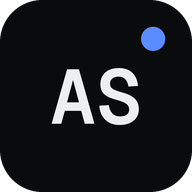
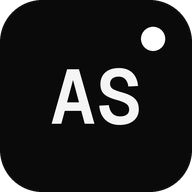
Switch to professional black-and-white design
Remove the colour-theme picker; monochrome accents (white on black,
black in light mode); neutral greys; dark theme by default; mono icons
and share image.

Changed region(s): [[0.7188, 0.125, 0.875, 0.2812]]

diff --git a/assets/css/style.css b/assets/css/style.css
@@ -15,26 +15,26 @@
   --font-mono: "Geist Mono", ui-monospace, SFMono-Regular, Menlo, Consolas, monospace;
   --font-serif: "Instrument Serif", ui-serif, Georgia, "Times New Roman", serif;
 
-  --bg: #080a0f;
-  --bg-alt: #0b0e14;
-  --surface: #10141b;
-  --surface-2: #161b24;
+  --bg: #0a0a0a;
+  --bg-alt: #0e0e0e;
+  --surface: #141414;
+  --surface-2: #1b1b1b;
   --line: rgba(255, 255, 255, 0.075);
   --line-2: rgba(255, 255, 255, 0.14);
-  --text: #eeeff1;
-  --text-2: #a7adb5;
-  --text-3: #7f858e;
-  --ok: #3ddc84;
-  --nav-bg: rgba(8, 9, 11, 0.7);
+  --text: #f5f5f5;
+  --text-2: #a3a3a3;
+  --text-3: #8a8a8a;
+  --ok: #e5e5e5;
+  --nav-bg: rgba(10, 10, 10, 0.72);
   --scan-dim: rgba(238, 239, 241, 0.15);
   --shadow: 0 1px 0 rgba(255, 255, 255, 0.05) inset, 0 30px 60px -30px rgba(0, 0, 0, 0.75);
-  --glow-strength: 16%;
+  --glow-strength: 5%;
   --grain-opacity: 0.05;
 
-  /* default accent: cobalt blue */
-  --accent: #5b8cff;
-  --accent-2: #8fb0ff;
-  --accent-ink: #050a16;
+  /* monochrome accent: white on black */
+  --accent: #ffffff;
+  --accent-2: #bdbdbd;
+  --accent-ink: #0a0a0a;
 
   --radius: 18px;
   --radius-sm: 12px;
@@ -47,45 +47,34 @@
 }
 
 [data-theme="light"] {
-  --bg: #f6f7f9;
-  --bg-alt: #eef0f4;
+  --bg: #fafafa;
+  --bg-alt: #f2f2f2;
   --surface: #ffffff;
-  --surface-2: #f2f4f7;
+  --surface-2: #f4f4f4;
   --line: rgba(15, 17, 20, 0.08);
   --line-2: rgba(15, 17, 20, 0.16);
-  --text: #0e1013;
-  --text-2: #4b5159;
-  --text-3: #686e77;
-  --ok: #15965a;
-  --nav-bg: rgba(245, 244, 240, 0.78);
+  --text: #0a0a0a;
+  --text-2: #4a4a4a;
+  --text-3: #6b6b6b;
+  --ok: #171717;
+  --nav-bg: rgba(250, 250, 250, 0.8);
   --scan-dim: rgba(14, 16, 19, 0.15);
   --shadow: 0 1px 2px rgba(0, 0, 0, 0.04), 0 28px 50px -30px rgba(20, 22, 26, 0.25);
-  --glow-strength: 10%;
+  --glow-strength: 4%;
   --grain-opacity: 0.035;
 
-  --accent: #1d4ed8;
-  --accent-2: #3b6cf0;
+  --accent: #0a0a0a;
+  --accent-2: #3d3d3d;
   --accent-ink: #ffffff;
 
   color-scheme: light;
 }
 
 /* Accent themes (picked from the palette menu in the nav) */
-[data-accent="teal"]                         { --accent: #2dd4bf; --accent-2: #7eeadb; --accent-ink: #03140f; }
-[data-theme="light"][data-accent="teal"]     { --accent: #0f766e; --accent-2: #14958a; --accent-ink: #ffffff; }
-[data-accent="orange"]                       { --accent: #ff6b2c; --accent-2: #ffa05c; --accent-ink: #0a0b0d; }
-[data-theme="light"][data-accent="orange"]   { --accent: #c2410c; --accent-2: #ea580c; --accent-ink: #ffffff; }
-[data-accent="emerald"]                      { --accent: #34d399; --accent-2: #7ee8bf; --accent-ink: #04140d; }
-[data-theme="light"][data-accent="emerald"]  { --accent: #047857; --accent-2: #0a9a6f; --accent-ink: #ffffff; }
-[data-accent="violet"]                       { --accent: #a78bfa; --accent-2: #c9b8ff; --accent-ink: #0d0819; }
-[data-theme="light"][data-accent="violet"]   { --accent: #6d28d9; --accent-2: #8b5cf6; --accent-ink: #ffffff; }
-[data-accent="amber"]                        { --accent: #f5b83d; --accent-2: #ffd27a; --accent-ink: #140e02; }
-[data-theme="light"][data-accent="amber"]    { --accent: #a14b06; --accent-2: #c2620a; --accent-ink: #ffffff; }
-
 /* tints derived from whichever accent is active */
 :root {
-  --accent-soft: color-mix(in srgb, var(--accent) 12%, transparent);
-  --accent-line: color-mix(in srgb, var(--accent) 38%, transparent);
+  --accent-soft: color-mix(in srgb, var(--accent) 8%, transparent);
+  --accent-line: color-mix(in srgb, var(--accent) 45%, transparent);
   --accent-glow: color-mix(in srgb, var(--accent) var(--glow-strength), transparent);
 }
 
@@ -247,9 +236,9 @@ strong { font-weight: 600; color: var(--text); }
 .btn--primary {
   background: linear-gradient(135deg, var(--accent), var(--accent-2));
   color: var(--accent-ink);
-  box-shadow: 0 10px 30px -12px var(--accent), inset 0 1px 0 rgba(255, 255, 255, 0.25);
+  box-shadow: 0 10px 30px -14px rgba(0, 0, 0, 0.6);
 }
-.btn--primary:hover { transform: translateY(-2px); box-shadow: 0 16px 36px -12px var(--accent), inset 0 1px 0 rgba(255, 255, 255, 0.3); }
+.btn--primary:hover { transform: translateY(-2px); box-shadow: 0 16px 36px -14px rgba(0, 0, 0, 0.7); }
 .btn--ghost { border-color: var(--line-2); color: var(--text); background: color-mix(in srgb, var(--surface) 60%, transparent); }
 .btn--ghost:hover { background: var(--surface-2); border-color: var(--text-3); }
 .btn--sm { height: 38px; padding: 0 16px; font-size: 0.875rem; }
@@ -675,8 +664,8 @@ strong { font-weight: 600; color: var(--text); }
   width: 8px;
   height: 8px;
   border-radius: 50%;
-  background: #ff4d4d;
-  box-shadow: 0 0 0 3px rgba(255, 77, 77, 0.25);
+  background: #fff;
+  box-shadow: 0 0 0 3px rgba(255, 255, 255, 0.25);
 }
 .media--left img { object-position: left center; }
 .media--note {

diff --git a/index.html b/index.html
@@ -10,8 +10,8 @@
   <meta name="author" content="Ashish Shajan">
   <meta name="keywords" content="Ashish Shajan, robotics engineer, autonomous systems, ROS 2, PX4, SLAM, sensor fusion, computer vision, AT Bots, Team Equinox, BAJA, Kerala">
   <link rel="canonical" href="https://ashish480.github.io/">
-  <meta name="theme-color" content="#080a0f" media="(prefers-color-scheme: dark)">
-  <meta name="theme-color" content="#f6f6f3" media="(prefers-color-scheme: light)">
+  <meta name="theme-color" content="#0a0a0a" media="(prefers-color-scheme: dark)">
+  <meta name="theme-color" content="#fafafa" media="(prefers-color-scheme: light)">
 
   <!-- Social share preview (LinkedIn, WhatsApp, X, Slack…) -->
   <meta property="og:type" content="website">
@@ -42,11 +42,8 @@
     (function () {
       var t = null;
       try { t = localStorage.getItem('theme'); } catch (e) {}
-      if (!t) t = window.matchMedia('(prefers-color-scheme: light)').matches ? 'light' : 'dark';
+      if (!t) t = 'dark';
       document.documentElement.setAttribute('data-theme', t);
-      var a = null;
-      try { a = localStorage.getItem('accent'); } catch (e) {}
-      if (a && a !== 'cobalt' && a !== 'blue') document.documentElement.setAttribute('data-accent', a);
       document.documentElement.classList.add('js');
       // safety net: if main.js fails to load, never leave content hidden
       setTimeout(function () { if (!window.__portfolioReady) document.documentElement.classList.remove('js'); }, 3000);
@@ -124,22 +121,6 @@
       </nav>
 
       <div class="nav__actions">
-        <div class="palette" data-palette>
-          <button class="icon-btn" type="button" data-palette-toggle aria-expanded="false" aria-controls="palette-menu" aria-label="Choose accent colour">
-            <span class="palette__current" aria-hidden="true"></span>
-          </button>
-          <div class="palette__menu" id="palette-menu" role="menu" hidden>
-            <p class="palette__title mono">Accent</p>
-            <div class="palette__swatches">
-              <button type="button" role="menuitemradio" data-accent-choice="cobalt" aria-label="Cobalt blue"><span style="--sw:#5b8cff"></span></button>
-              <button type="button" role="menuitemradio" data-accent-choice="teal" aria-label="Teal"><span style="--sw:#2dd4bf"></span></button>
-              <button type="button" role="menuitemradio" data-accent-choice="orange" aria-label="Signal orange"><span style="--sw:#ff6b2c"></span></button>
-              <button type="button" role="menuitemradio" data-accent-choice="emerald" aria-label="Emerald"><span style="--sw:#34d399"></span></button>
-              <button type="button" role="menuitemradio" data-accent-choice="violet" aria-label="Violet"><span style="--sw:#a78bfa"></span></button>
-              <button type="button" role="menuitemradio" data-accent-choice="amber" aria-label="Amber"><span style="--sw:#f5b83d"></span></button>
-            </div>
-          </div>
-        </div>
         <button class="icon-btn" type="button" data-theme-toggle aria-label="Switch to light theme">
           <svg class="icon icon--sun"><use href="#i-sun"/></svg>
           <svg class="icon icon--moon"><use href="#i-moon"/></svg>

diff --git a/assets/js/main.js b/assets/js/main.js
@@ -26,36 +26,6 @@
     });
   }
 
-  /* ---------- Accent theme picker (orange, blue, emerald, violet, amber) ---------- */
-  var palette = document.querySelector('[data-palette]');
-  if (palette) {
-    var paletteBtn = palette.querySelector('[data-palette-toggle]');
-    var paletteMenu = palette.querySelector('.palette__menu');
-    var choices = palette.querySelectorAll('[data-accent-choice]');
-    var markChoice = function () {
-      var current = root.getAttribute('data-accent') || 'cobalt';
-      choices.forEach(function (c) { c.setAttribute('aria-checked', String(c.getAttribute('data-accent-choice') === current)); });
-    };
-    var setPalette = function (open) {
-      paletteMenu.hidden = !open;
-      paletteBtn.setAttribute('aria-expanded', String(open));
-    };
-    markChoice();
-    paletteBtn.addEventListener('click', function (e) { e.stopPropagation(); setPalette(paletteMenu.hidden); });
-    choices.forEach(function (c) {
-      c.addEventListener('click', function () {
-        var accent = c.getAttribute('data-accent-choice');
-        if (accent === 'cobalt') root.removeAttribute('data-accent');
-        else root.setAttribute('data-accent', accent);
-        try { localStorage.setItem('accent', accent); } catch (e) {}
-        markChoice();
-        document.dispatchEvent(new CustomEvent('themechange'));
-      });
-    });
-    document.addEventListener('click', function (e) { if (!palette.contains(e.target)) setPalette(false); });
-    document.addEventListener('keydown', function (e) { if (e.key === 'Escape') setPalette(false); });
-  }
-
   /* ---------- Navigation: scrolled state, progress bar, mobile menu ---------- */
   var nav = document.querySelector('[data-nav]');
   var menuBtn = document.querySelector('[data-menu-toggle]');
@@ -260,7 +230,7 @@
 
     function readColors() {
       var cs = getComputedStyle(root);
-      colors.accent = cs.getPropertyValue('--accent').trim() || '#5b8cff';
+      colors.accent = cs.getPropertyValue('--accent').trim() || '#ffffff';
       colors.dim = cs.getPropertyValue('--scan-dim').trim() || 'rgba(237,238,240,.16)';
     }
 

diff --git a/404.html b/404.html
@@ -14,11 +14,8 @@
     (function () {
       var t = null;
       try { t = localStorage.getItem('theme'); } catch (e) {}
-      if (!t) t = window.matchMedia('(prefers-color-scheme: light)').matches ? 'light' : 'dark';
+      if (!t) t = 'dark';
       document.documentElement.setAttribute('data-theme', t);
-      var a = null;
-      try { a = localStorage.getItem('accent'); } catch (e) {}
-      if (a && a !== 'cobalt' && a !== 'blue') document.documentElement.setAttribute('data-accent', a);
     })();
   </script>
   <style>
